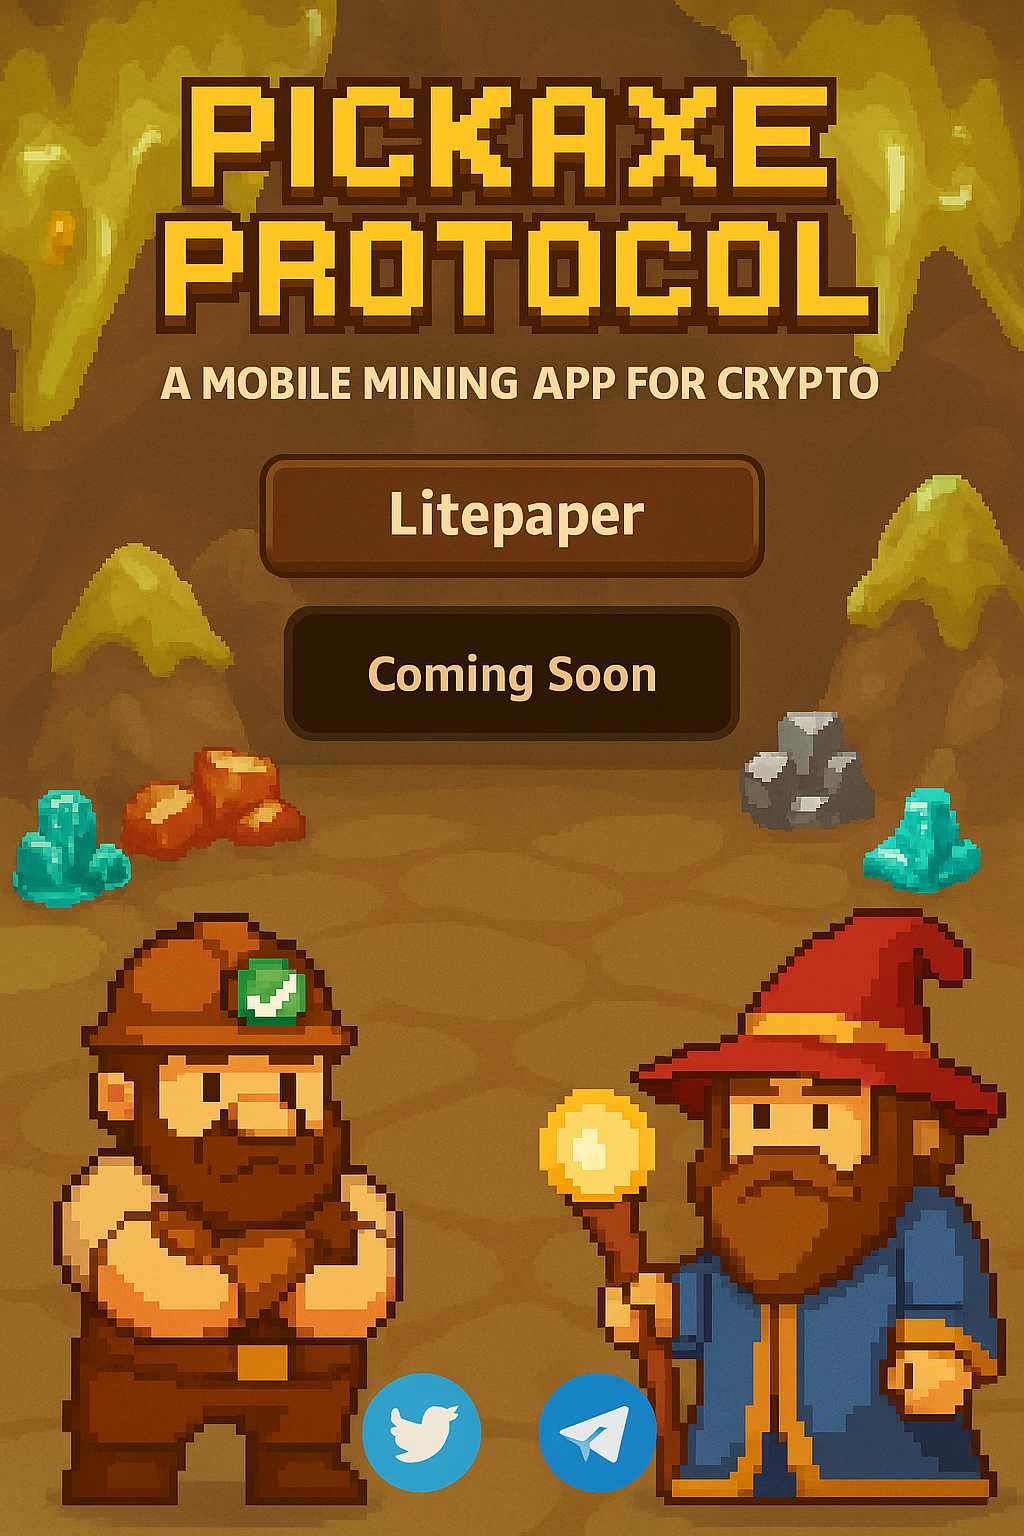
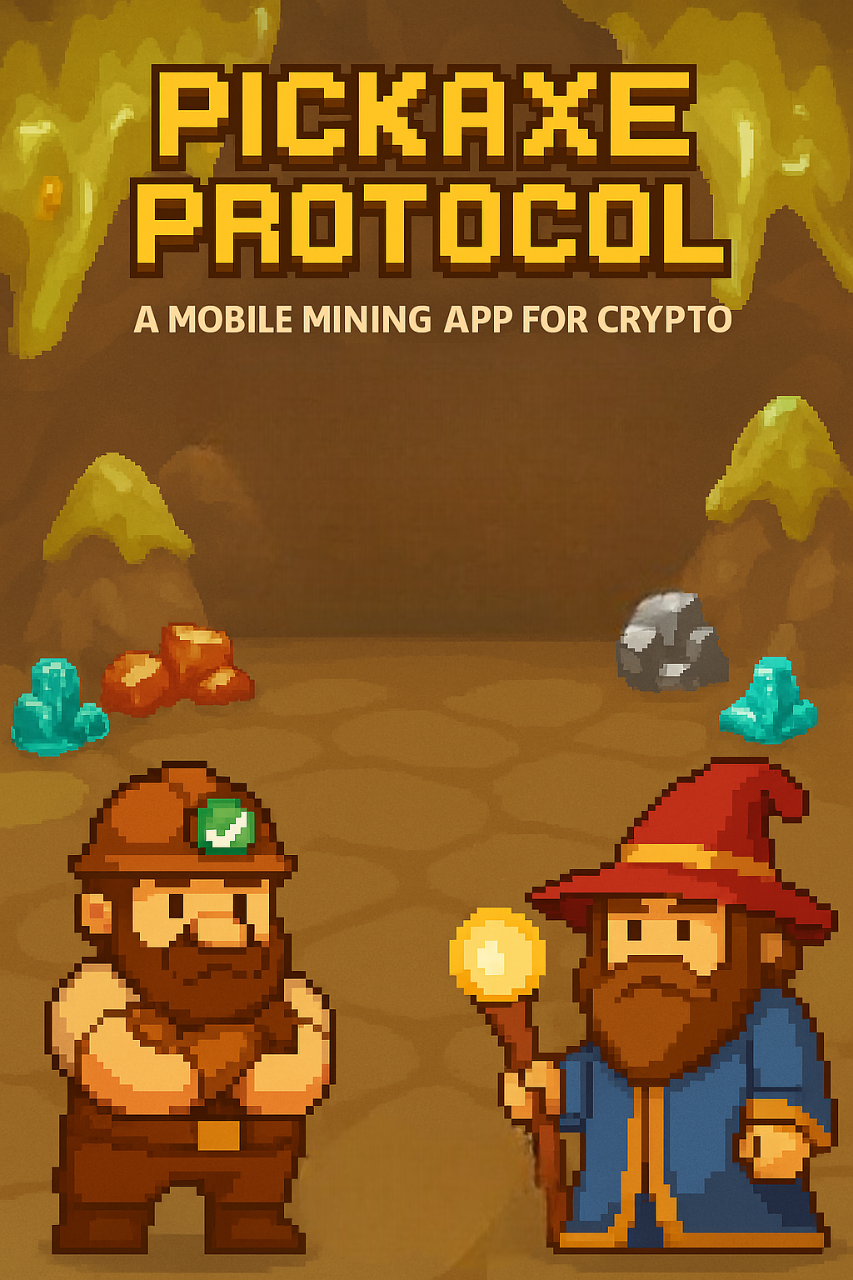
작업커밋

Changed region(s): [[0.2438, 0.2812, 0.7925, 0.5], [0.3353, 0.875, 0.4877, 0.9688], [0.5182, 0.875, 0.6401, 0.9688]]

diff --git a/index.html b/index.html
@@ -1,88 +1,107 @@
 <!DOCTYPE html>
 <html lang="en">
 <head>
-  <meta charset="UTF-8">
-  <meta name="viewport" content="width=device-width, initial-scale=1.0">
-  <title>Pickaxe Protocol</title>
-  <link href="https://fonts.googleapis.com/css2?family=Press+Start+2P&display=swap" rel="stylesheet">
-  <style>
-    body {
-      background-color: #3a2f22;
-      color: #fff;
-      font-family: 'Press Start 2P', cursive;
-      text-align: center;
-      margin: 0;
-      padding: 0;
-      background-image: url('assets/background.png');
-      background-size: cover;
-      background-position: center;
-    }
-    .floating {
-      position: fixed;
-      bottom: 0;
-      width: 150px;
-      height: 150px;
-      background-size: contain;
-      background-repeat: no-repeat;
-      animation: float 3s ease-in-out infinite;
-      opacity: 0.8;
-    }
-    #left-character {
-      left: 10px;
-      background-image: url('assets/character1.jpg');
-      animation-delay: 0s;
-    }
-    #right-character {
-      right: 10px;
-      background-image: url('assets/character2.jpg');
-      animation-delay: 1.5s;
-    }
-    @keyframes float {
-      0%, 100% { transform: translateY(0); }
-      50% { transform: translateY(-10px); }
-    }
-    .container {
-      padding: 20px;
-    }
-    .logo {
-      margin-top: 20px;
-      width: 150px;
-    }
-    .menu {
-      margin-top: 30px;
-    }
-    .menu a {
-      display: inline-block;
-      margin: 10px;
-      padding: 10px 20px;
-      color: #fff;
-      background-color: #ffb703;
-      text-decoration: none;
-      border-radius: 10px;
-      font-size: 12px;
-    }
-    .footer {
-      margin-top: 40px;
-      color: #aaa;
-      font-size: 12px;
-    }
-  </style>
+    <meta charset="UTF-8" />
+    <meta name="viewport" content="width=device-width, initial-scale=1.0" />
+    <title>Pickaxe Protocol</title>
+    <link href="https://fonts.googleapis.com/css2?family=Press+Start+2P&display=swap" rel="stylesheet">
+    <style>
+        body {
+            background-color: #3a2f22;
+            color: #fff;
+            font-family: 'Press Start 2P', cursive;
+            text-align: center;
+            margin: 0;
+            padding: 0;
+            background-image: url('assets/background.png');
+            background-size: cover;
+            background-position: center;
+        }
+
+        .container {
+            padding: 20px;
+        }
+
+        .menu {
+            margin-top: 30px;
+            display: flex;
+            justify-content: center;
+            gap: 20px;
+            flex-wrap: wrap;
+        }
+
+            .menu a {
+                display: flex;
+                flex-direction: column;
+                align-items: center;
+                justify-content: center;
+                width: 60px;
+                height: 60px;
+                background-color: rgba(255, 255, 255, 1.0);
+                border-radius: 12px;
+                text-decoration: none;
+                transition: background-color 0.3s;
+                color: #000;
+                font-size: 6px;
+                line-height: 1.2;
+                text-align: center;
+            }
+
+                .menu a:hover {
+                    background-color: rgba(255, 255, 255, 0.8);
+                }
+
+                .menu a img {
+                    width: 30px;
+                    height: 30px;
+                    object-fit: contain;
+                    margin-bottom: 3px;
+                }
+
+        .telegram {
+            background-color: #039BE5 !important;
+        }
+
+        .footer {
+            margin-top: 40px;
+            color: #aaa;
+            font-size: 12px;
+        }
+        .menu a.telegram {
+            background-color: #039BE5;
+            color: white;
+        }
+    </style>
 </head>
 <body>
-  <div id="left-character" class="floating"></div>
-  <div id="right-character" class="floating"></div>
-  <div class="container">
-    <img src="assets/logo.jpg" alt="Pickaxe Protocol Logo" class="logo">
-    <h1>Pickaxe Protocol</h1>
-    <p>The Mining GameFi Revolution</p>
-    <div class="menu">
-      <a href="#" onclick="alert('Litepaper coming soon!')">Litepaper</a>
-      <a href="https://twitter.com" target="_blank">Twitter</a>
-      <a href="https://t.me" target="_blank">Telegram</a>
+    <div class="container">
+        <h1>Pickaxe Protocol</h1>
+        <p>The Mining GameFi Revolution</p>
+
+        <div class="menu">
+            <a href="#" onclick="alert('Litepaper coming soon!')">
+                <img src="https://cdn-icons-png.flaticon.com/512/281/281760.png" alt="Litepaper">
+                Light Paper
+            </a>
+
+            <a href="https://play.google.com/store/apps/details?id=com.neocode.pickaxe" target="_blank">
+                <img src="https://cdn-icons-png.flaticon.com/512/300/300218.png" alt="Google Play">
+            </a>
+
+            <a href="https://twitter.com" target="_blank">
+                <img src="https://upload.wikimedia.org/wikipedia/commons/c/ce/X_logo_2023.svg" alt="Twitter X">
+            </a>
+
+            <a href="https://t.me" target="_blank" class="menu-item">
+                <img src="https://upload.wikimedia.org/wikipedia/commons/8/82/Telegram_logo.svg"
+                     alt="Telegram"
+                     style="width: 45px; height: 45px;">
+            </a>
+        </div>
+
+        <div class="footer">
+            &copy; 2025 Pickaxe Protocol. All rights reserved.
+        </div>
     </div>
-    <div class="footer">
-      &copy; 2025 Pickaxe Protocol. All rights reserved.
-    </div>
-  </div>
 </body>
 </html>
